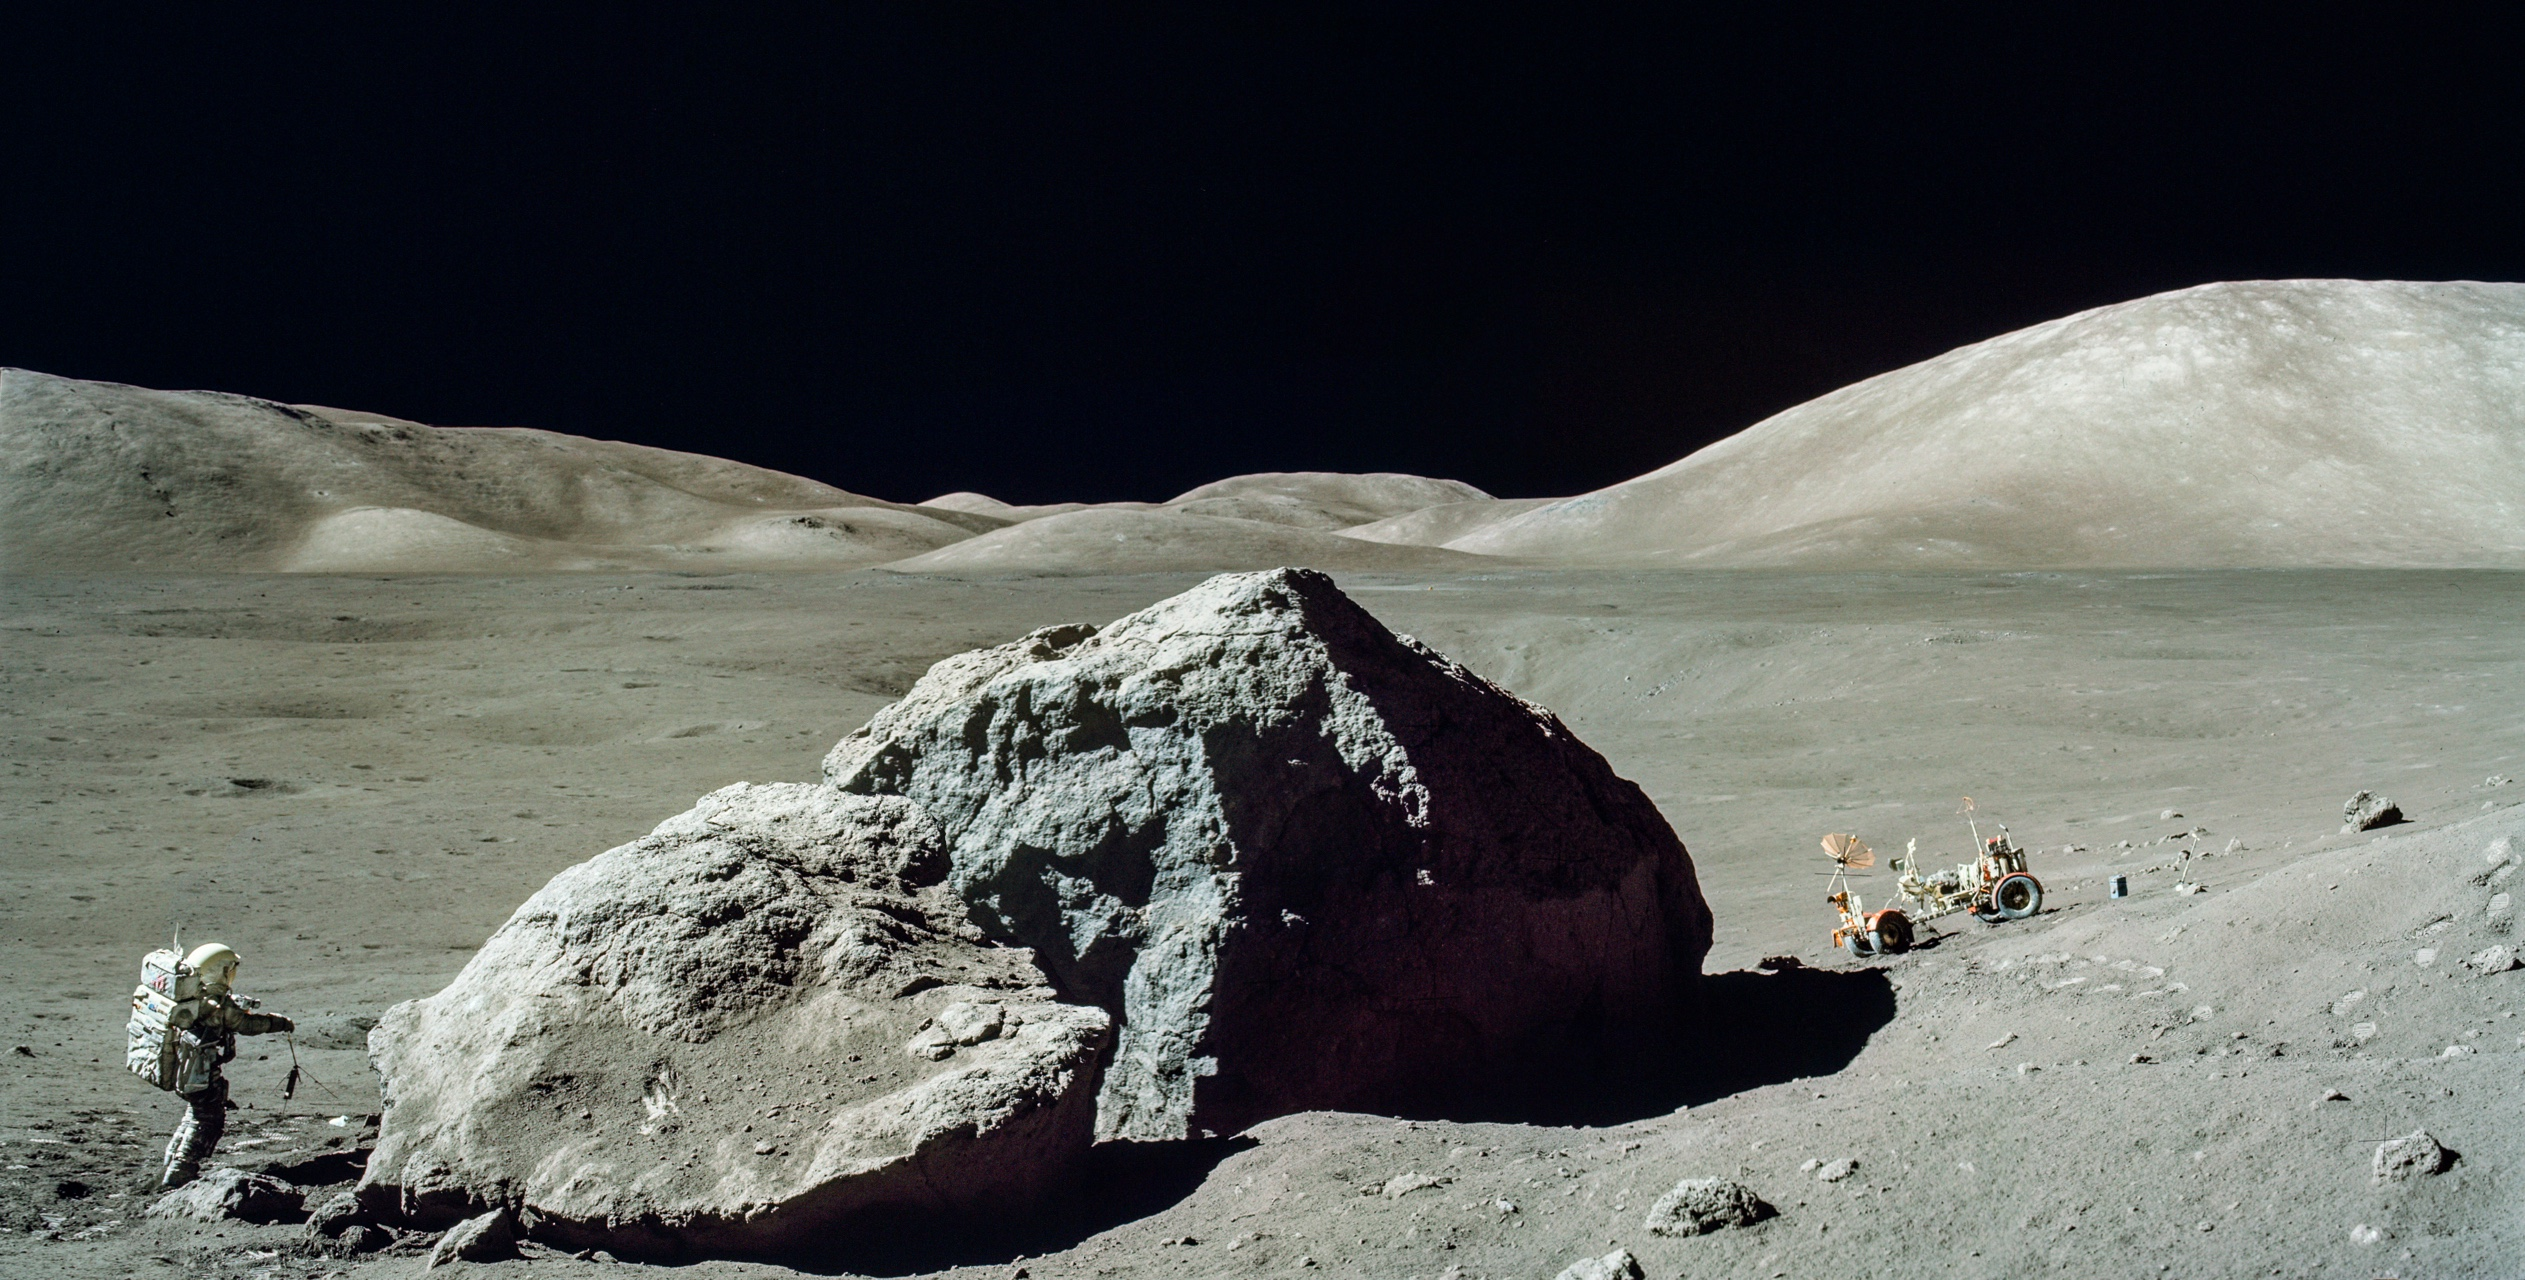
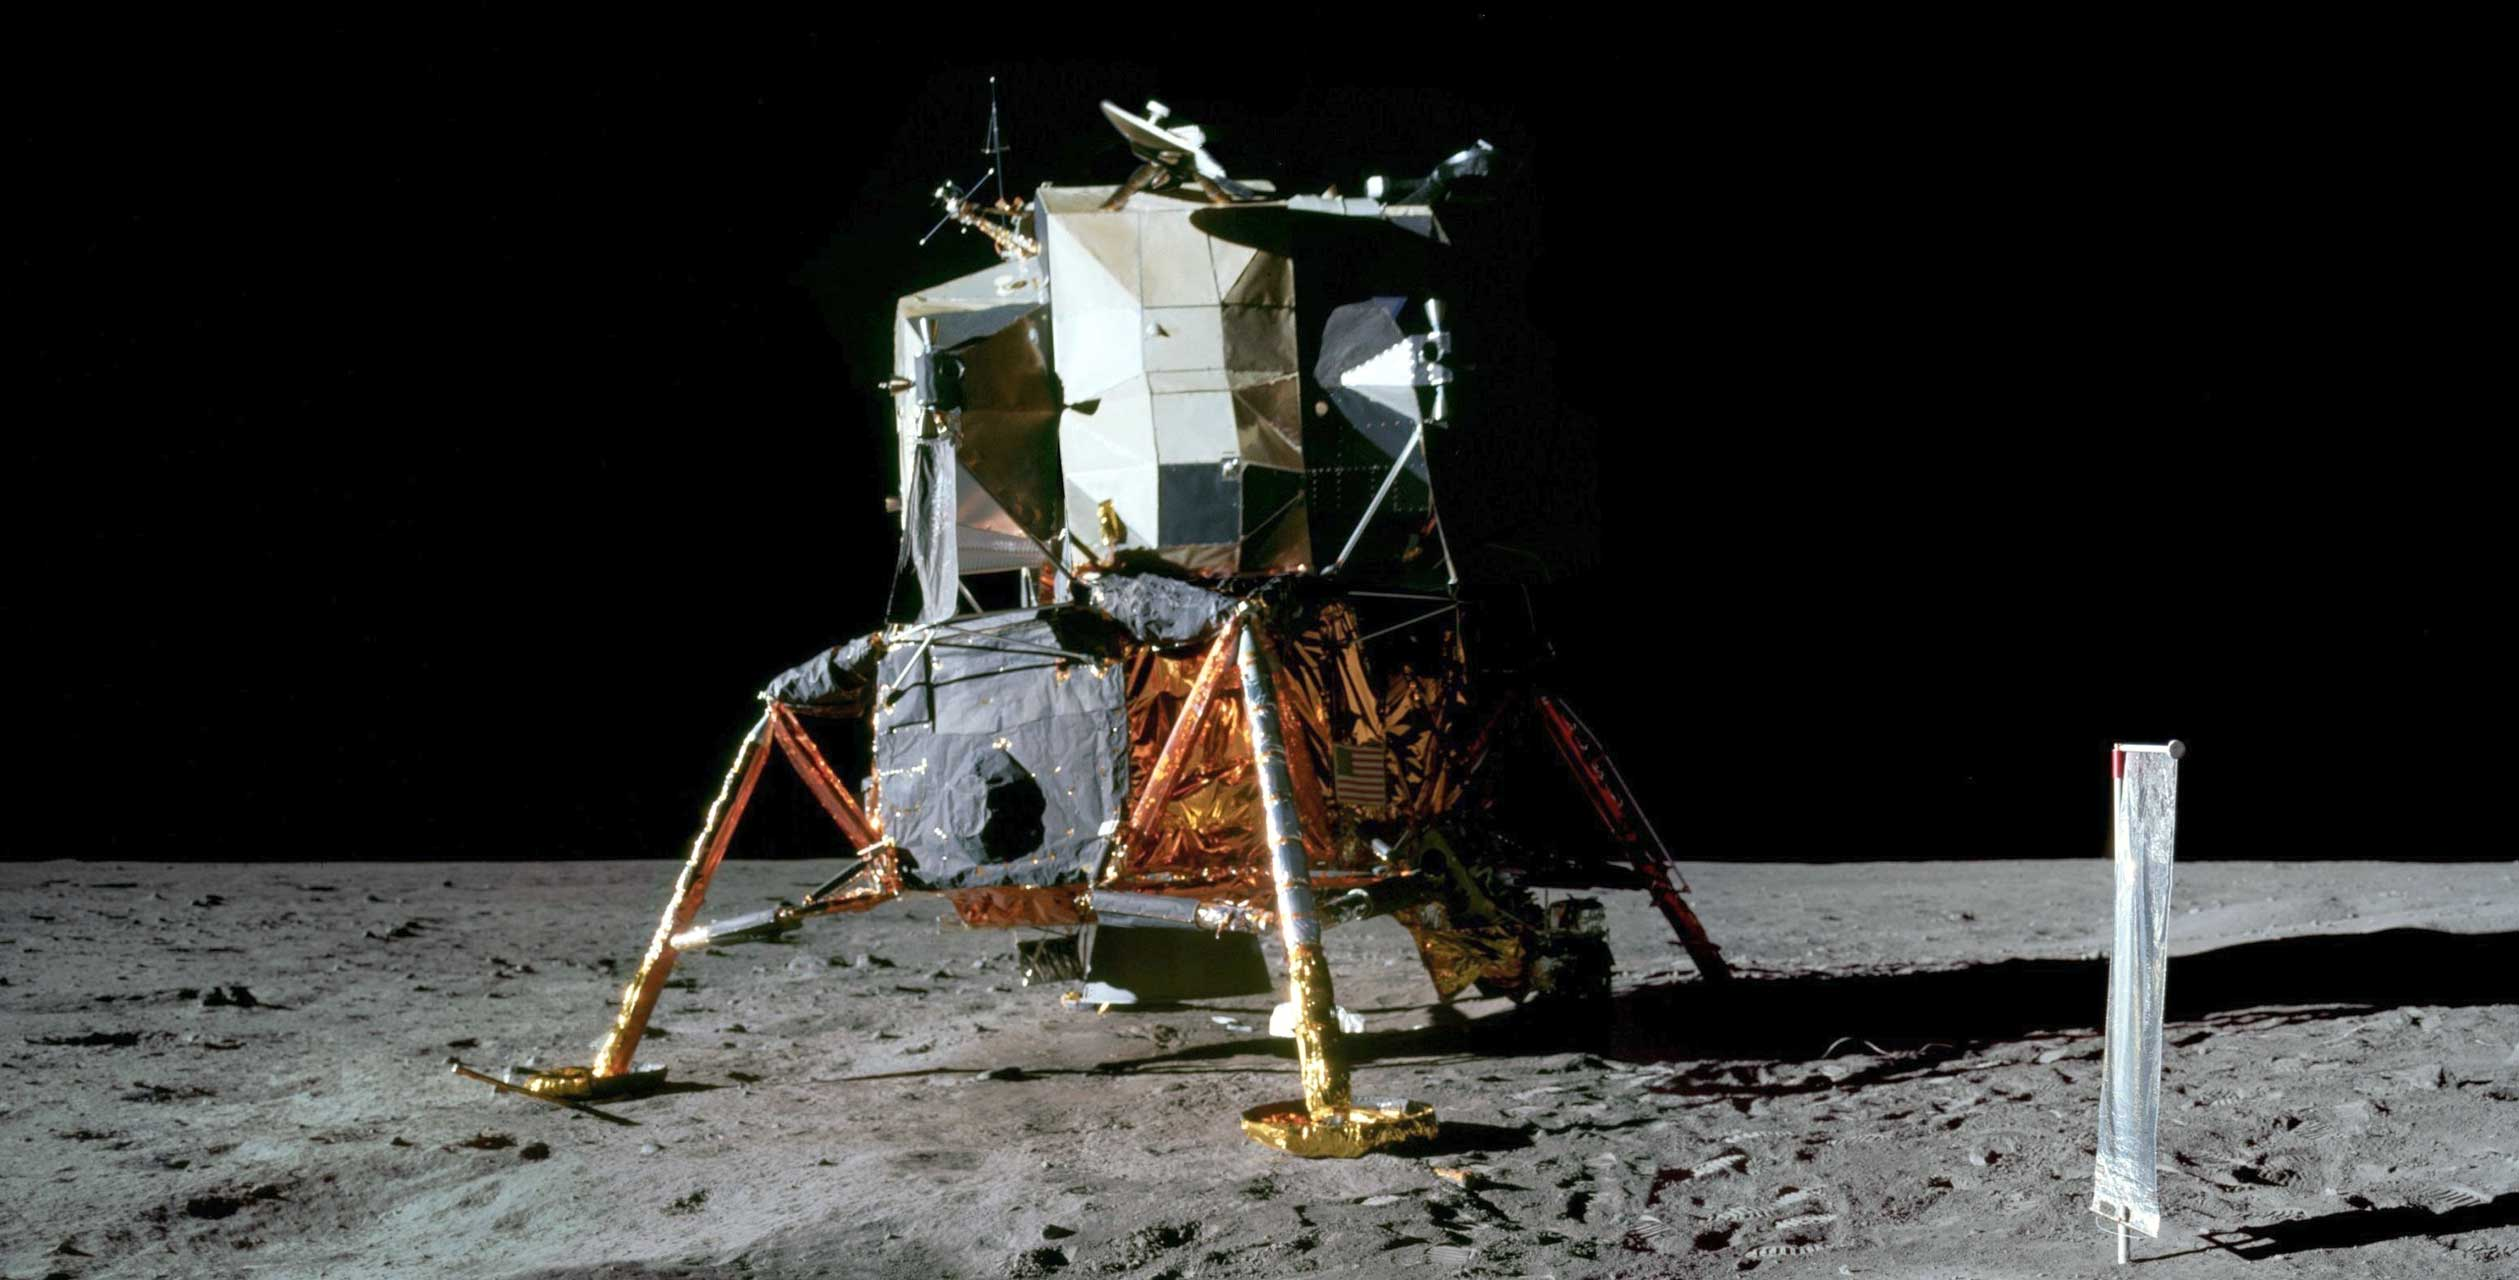
Tiny improvements. Barely works.

diff --git a/_website/_webroot/MOCRviz/MOCRviz.js b/_website/_webroot/MOCRviz/MOCRviz.js
@@ -243,14 +243,18 @@ function mainApplication() {
                 if (parentMissionTimeSeconds >= gCurrGETSeconds - 1 && parentMissionTimeSeconds <= gCurrGETSeconds + 1) {
                     // then we're close enough, don't correct the time
                 } else {
-                    gCurrGETSeconds = parentMissionTimeSeconds;
+                    if (parentMissionTimeSeconds !== NaN) {
+                        gCurrGETSeconds = parentMissionTimeSeconds;
 
-                    loadChannelSoundfile();
-                    gWaveformRefresh = true;
+                        loadChannelSoundfile();
+                        gWaveformRefresh = true;
 
-                    playFromCurrGET();
-                    drawChannels(true);
-                    drawTimeCursor();
+                        playFromCurrGET();
+                        drawChannels(true);
+                        drawTimeCursor();
+                    } else {
+                        trace("parentMissionTimeSeconds is NaN!");
+                    }
                 }
             }
 
@@ -699,6 +703,10 @@ function timeStrToSeconds(timeStr) {
     //if (totalSeconds > 230400)
     //    totalSeconds -= 9600;
     return totalSeconds;
+}
+
+function timeStrToTimeId(timeStr) {
+    return timeStr.split(":").join("");
 }
 
 function padZeros(num, size) {

diff --git a/_website/_webroot/port/inc/splash.html b/_website/_webroot/port/inc/splash.html
@@ -3,19 +3,17 @@
         <!--<script src="https://pv.webbyawards.com/cloud/roadblock.js" data-id="849" data-display-rank="true" id="webby-pv-roadblock"></script>-->
         <div class="about">
           <div class="content-wrapper">
-            <h1>The Last Mission to the Moon</h1>
-            <h2>A real-time journey through the Apollo 17 mission.</h2>
+            <h1>The First Landing on the Moon</h1>
+            <h2>A real-time journey through the Apollo 11 mission.</h2>
 
-            <h3>Over 300 hours of audio <span>|</span> Over 22 hours of video <span>|</span> Over 3,600 photos</h3>
+            <h3>This website has worked for exacly 30 seconds. Don't judge me.</h3>
 
-            <h4>Relive every moment as it occurred in 1972.</h4>
+            <h4 style="color: rgba(215, 160, 108, .9); margin-top: 3.0em;">v0.0001 alpha</h4>
 
-            <h4 style="color: rgba(215, 160, 108, .9); margin-top: 3.0em;">Dec. 2017 - 45th Anniversary Edition</h4>
-
-            <h4>Hours of additional rare footage</h4>
-            <h4>Continued corrections and refinements</h4>
-            <h4>Landing site reconstruction using Lunar Reconnaissance Orbiter data</h4>
-            <h4><a href="https://lunar.gsfc.nasa.gov/" target="_blank"><img src="img/LRO_splash.png" style="height: 3em;"></a></h4>
+            <h4>First attempt at MOCR audio integration. It's buggy as all get out.</h4>
+            <h4>Still has a pile of Apollo 17 data in it.</h4>
+            <h4>It's a bit of a cacaphony. Suggest muting the video sound with the mute button (little speaker)</h4>
+            <h4>If it acts weird you have to reload it.</h4>
 
           </div>
         </div>
@@ -29,7 +27,7 @@
             <div>Join at 1  minute to launch.</div>
           </div>
 
-          <div class="section now">
+          <div class="section now" style="display: none;">
             <a class="splash-btn simplemodal-close" onclick="historicalButtonClick(); return false;">
                 <span id="labelRealtime">NOW</span>
             </a>

diff --git a/_website/_webroot/port/inc/app.html b/_website/_webroot/port/inc/app.html
@@ -2,12 +2,12 @@
 <section class="app">
   <header>
 
-    <div class="logo-wrapper"><img src="img/Apollo_17-insignia100.png"></div>
+    <div class="logo-wrapper"><img src="img/Apollo_11-insignia100.png"></div>
 
     <div class="info-wrapper">
       <div class="content">
-          <div class="pre-title">The Last Mission to the Moon</div>
-          <div class="title">Apollo 17</div>
+          <div class="pre-title">The First Landing on the Moon</div>
+          <div class="title">Apollo 11</div>
           <div class="subtitle">Real-Time Mission Experience</div>
           <div class="historicalDate date">Thu Dec 07 1972</div>
           <div class="historicalTime time">12:32:00 AM</div>

diff --git a/_website/_webroot/port/index.js b/_website/_webroot/port/index.js
@@ -1,13 +1,13 @@
 trace("INIT: Loading index.js");
 //app control flags
 var gStopCache = false;
-var gCdnEnabled = true;
+var gCdnEnabled = false;
 var gOffline = false;
 
 //constants
 var gMissionDurationSeconds = 784086;
 var gCountdownSeconds = 74768;
-var gDefaultStartTimeId = '-000105';
+var gDefaultStartTimeId = '-000110';
 var gFontLoaderDelay = 3; //seconds
 var gBackground_color_active = "#222222";
 

diff --git a/_website/_webroot/port/index.php b/_website/_webroot/port/index.php
@@ -6,7 +6,7 @@
     <meta http-equiv="Expires" content="0" />
     <link rel="copyright" href="http://creativecommons.org/licenses/by-nc-sa/3.0/" />
 
-    <title>Apollo 17 in Real-time</title>
+    <title>Apollo 11 in Real-time</title>
     <link rel="image_src" href="http://apollo17.org/img/screenshot.png" / >
     <meta name="description" content="A real-time interactive journey through the Apollo 17 mission. Relive every moment as it occurred in 1972. 300+ hours of audio, 22+ hours of video, 4,200+ photos." />
 